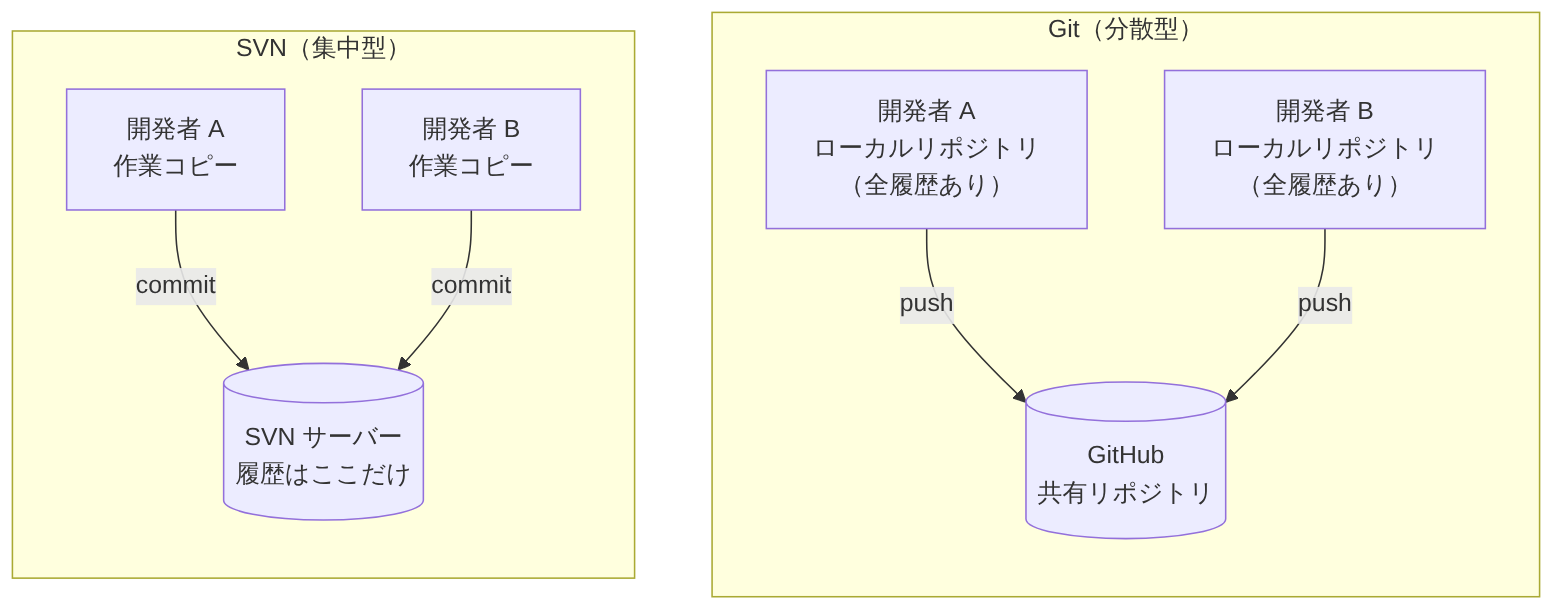
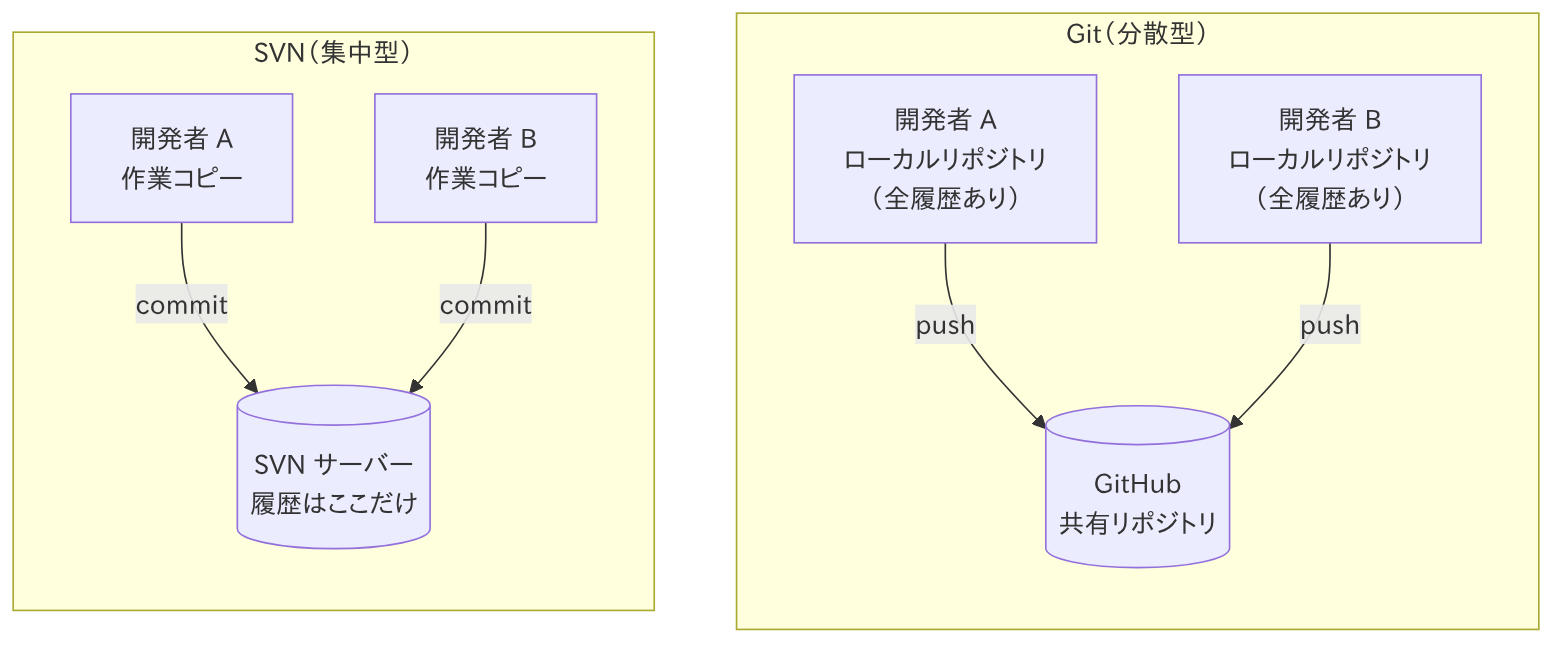
移行説明資料：Issue の表記と図を修正
- イシューを GitHub の表記に合わせて Issue に変更
- 図の日本語フォントを指定し、漢字が中国語の字形になる問題を修正
- 1.4 の図をサーバーとローカル PC の間のデータの流れがわかる形に変更

Claude-Session: https://claude.ai/code/session_01P9fjH1UzaVXdMC2XXbQtP6

diff --git a/svn-to-github-migration/docs/01-git-github.md b/svn-to-github-migration/docs/01-git-github.md
@@ -9,7 +9,7 @@
 ## 1.2 GitHub とは
 
 - Git のリポジトリを置いて共有するサービス
-- プルリクエスト、イシュー、GitHub Actions、GitHub Copilot など、開発を支える機能がある
+- プルリクエスト、Issue、GitHub Actions、GitHub Copilot など、開発を支える機能がある
 
 出典：[GitHub とは（GitHub Docs）](https://docs.github.com/ja/get-started/start-your-journey/what-is-github)
 
@@ -23,4 +23,6 @@ SVN は履歴をサーバーだけが持ちます。Git は各開発者が全履
 
 SVN の commit はすぐにサーバーへ反映されます。Git の commit は手元に記録するだけで、push して初めて GitHub に反映されます。GitHub では、作業用のブランチで変更し、プルリクエストでレビューを受けてからマージします。
 
-![SVN と Git の作業の流れの違い](img/01-git-github-2.png)
+![SVN の作業の流れ](img/01-git-github-2.png)
+
+![Git・GitHub の作業の流れ](img/01-git-github-3.png)

diff --git a/svn-to-github-migration/docs/03-copilot.md b/svn-to-github-migration/docs/03-copilot.md
@@ -5,12 +5,12 @@
 | 機能 | SVN のまま | GitHub 移行後 |
 | --- | --- | --- |
 | エディタでのコード補完、チャット | 使える | 使える |
-| イシューを割り当てて実装させる | 使えない | 使える |
+| Issue を割り当てて実装させる | 使えない | 使える |
 | プルリクエストをレビューさせる | 使えない | 使える |
 
-## 3.2 イシューを Copilot に割り当てて実装させる
+## 3.2 Issue を Copilot に割り当てて実装させる
 
-- イシューを Copilot に割り当てると、Copilot が実装してプルリクエストを作成する
+- Issue を Copilot に割り当てると、Copilot が実装してプルリクエストを作成する
 - マージするかどうかは、開発者がレビューして判断する
 
 ![Copilot に実装させる流れ](img/03-copilot-1.png)

diff --git a/svn-to-github-migration/docs/02-merits.md b/svn-to-github-migration/docs/02-merits.md
@@ -12,9 +12,9 @@
 
 出典：[Pull Request（GitHub Docs）](https://docs.github.com/ja/pull-requests/reference/pull-requests)
 
-## 2.3 イシューと変更を紐づけて管理できる
+## 2.3 Issue と変更を紐づけて管理できる
 
-- 課題（イシュー）と、それを解決したプルリクエストを紐づけられる
+- Issue（課題）と、それを解決したプルリクエストを紐づけられる
 - 「なぜこの変更をしたか」を後から追える
 
 出典：[プルリクエストを課題にリンクする（GitHub Docs）](https://docs.github.com/ja/issues/tracking-your-work-with-issues/using-issues/linking-a-pull-request-to-an-issue)

diff --git a/svn-to-github-migration/README.md b/svn-to-github-migration/README.md
@@ -9,3 +9,4 @@ mkdocs build    # site/ に HTML を出力
 ```
 
 図は `diagrams/*.mmd`（Mermaid）を PNG に変換して `docs/img/` に置いています。
+変換時は日本語フォントを指定した `mermaid-config.json` を使います（`mmdc -c mermaid-config.json -i <mmd> -o <png> -s 2 -b white`）。
